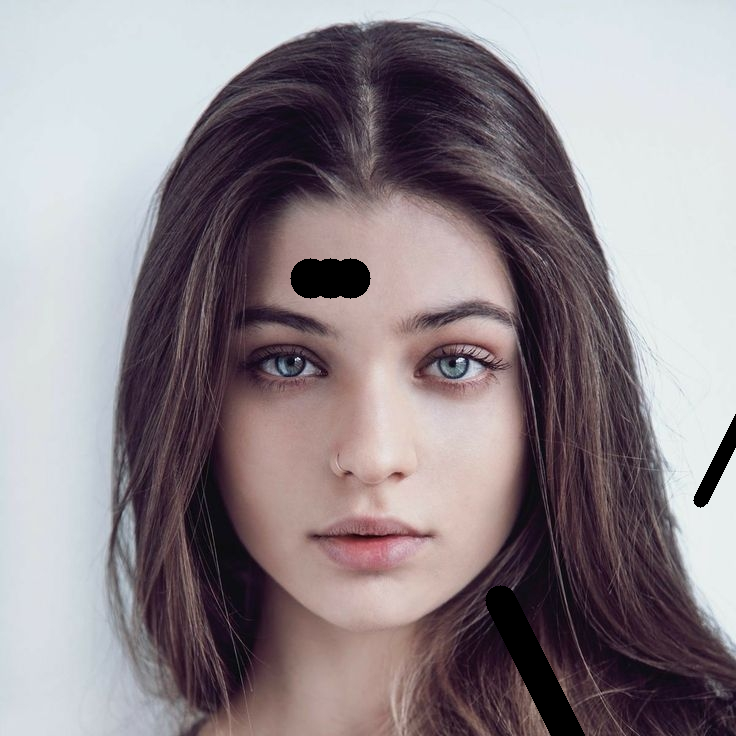
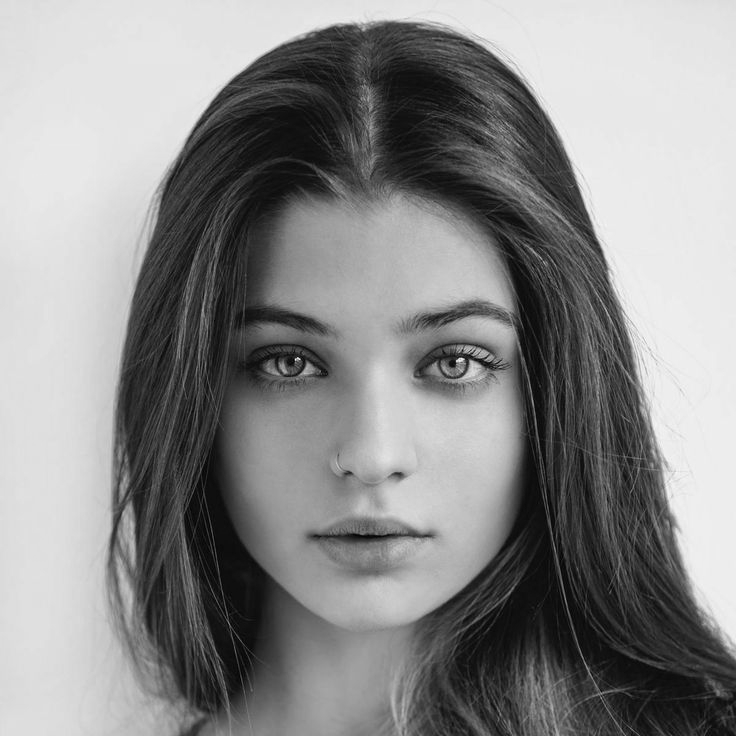
fix transform bug

diff --git a/export-tf-onnx.py b/export-tf-onnx.py
@@ -10,11 +10,13 @@
 import random
 
 import os
+from re import I
 import numpy as np
 import torch
 from models.face_model import FaceNet,FaceNet_Mid, FaceNet_v2
 from models.enhance_model import EnhanceNet,EnhanceNetX1,EnhanceNetX2, EnhanceNetX2_v2,EnhanceNetX3,EnhanceNet_x3,EnhanceNetX1_v3
 from models.anime_model import AnimeNet,AnimeNet2,AnimeNet4
+from models.colorize_model import ColorizeNet
 import utils
 import time
 from torch.utils.mobile_optimizer import optimize_for_mobile
@@ -79,12 +81,14 @@ def test_with_image(model,OUT_NAME,dtype = torch.float32):
                 img_L = util.imread_uint(img, n_channels=3)
                 w= np.shape(img_L)[1]
                 h = np.shape(img_L)[0]
-                img_L = cv2.line(img_L,pt1 = (700, 500), pt2 = (800, 300),
-                            color = (0, 0, 0),thickness = random.randint(5,20))
-                img_L =  cv2.circle(img_L,center = (350, 278),radius = 20,color = (0, 0, 0),thickness = -1)
-                img_L =  cv2.circle(img_L,center = (330, 278),radius = 20,color = (0, 0, 0),thickness = -1)
-                img_L =  cv2.circle(img_L,center = (310, 278),radius = 20,color = (0, 0, 0),thickness = -1)
-                img_L = cv2.line(img_L,pt1 = (500, 600), pt2 = (600, 800),color = (0, 0, 0),thickness = 30)
+                # img_L = cv2.line(img_L,pt1 = (700, 500), pt2 = (800, 300),
+                #             color = (0, 0, 0),thickness = random.randint(5,20))
+                # img_L =  cv2.circle(img_L,center = (350, 278),radius = 20,color = (0, 0, 0),thickness = -1)
+                # img_L =  cv2.circle(img_L,center = (330, 278),radius = 20,color = (0, 0, 0),thickness = -1)
+                # img_L =  cv2.circle(img_L,center = (310, 278),radius = 20,color = (0, 0, 0),thickness = -1)
+                # img_L = cv2.line(img_L,pt1 = (500, 600), pt2 = (600, 800),color = (0, 0, 0),thickness = 30)
+                img_L = cv2.cvtColor(img_L,cv2.COLOR_BGR2GRAY)
+                img_L = cv2.cvtColor(img_L,cv2.COLOR_GRAY2BGR)
                 util.imsave(img_L, os.path.join('testsets/exported', 'input'+'.png'))
             
                 #if(np.shape(img_L)[0] < 1055 and np.shape(img_L)[1] < 1055):
@@ -104,9 +108,9 @@ def test_with_image(model,OUT_NAME,dtype = torch.float32):
 
 
 #LOAD TORCH MODEL
-main_path = "checkpoints/enhance_net_checkpoints/enhance_net_x3/v2"
-toch_model_path = "checkpoints/enhance_net_checkpoints/enhance_net_x3/v2/checkpoint_base_epoch_26.pth"#"/home/anis/Desktop/AI/MultiSPE/checkpoints/face_net_checkpoints/checkpoint_base_epoch_19.pth"#os.path.join('checkpoints/face_net_checkpoints', 'checkpoint_base_epoch_19.pth')
-torch_model = EnhanceNetX3()
+main_path = "checkpoints/colorize_net_checkpoints/v1"
+toch_model_path = "checkpoints/colorize_net_checkpoints/v1/checkpoint_base_epoch_2.pth"#"/home/anis/Desktop/AI/MultiSPE/checkpoints/face_net_checkpoints/checkpoint_base_epoch_19.pth"#os.path.join('checkpoints/face_net_checkpoints', 'checkpoint_base_epoch_19.pth')
+torch_model = ColorizeNet()
         
 #torch_model = architecture.IMDN(upscale=4)
 checkpoint = torch.load(toch_model_path)

diff --git a/data/colorize_transform.py b/data/colorize_transform.py
@@ -158,11 +158,11 @@ class CvtToGRAY(object):
 
     def __call__(self, sample):
 
-        img_H = sample["img_H"]
-        img_H = cv2.cvtColor(img_H,cv2.COLOR_BGR2GRAY)
-        img_H = cv2.cvtColor(img_H,cv2.COLOR_GRAY2BGR)
+        img_L ,img_H= sample["img_L"], sample['img_H']
+        img_L = cv2.cvtColor(img_L,cv2.COLOR_BGR2GRAY)
+        img_L = cv2.cvtColor(img_L,cv2.COLOR_GRAY2BGR)
   
-        return {'img_H': img_H}
+        return {'img_H': img_H,'img_L':img_L}
 
 
 
@@ -226,8 +226,8 @@ class DataBatch:
 
         batch_= []
         for sample in batch:
-            sample_ = cvt2gray(sample)
-            sample_ = crop(sample_)
+            sample_ = crop(sample)
+            sample_ = cvt2gray(sample_)
             sample_ = rotate(sample_)
             #utils_image.imsave(sample_["img_H"]*255, os.path.join('testsets/exported', 'img_H'+'.png'))
             # utils_image.imsave(sample_["img_L"]*255, os.path.join('testsets/exported', 'img_L'+'.png'))
